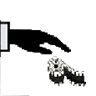
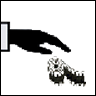
Added border/background for intel button

Changed region(s): [[0.0, 0.0, 1.0, 1.0]]

diff --git a/src/ClientGame.cpp b/src/ClientGame.cpp
@@ -65,7 +65,7 @@ void ClientGame::LoadResources()
             { &m_buttonTexture[ButtonId_Capture],       "assets/action_capture.png"     },
             { &m_buttonTexture[ButtonId_Stakeout],      "assets/action_stakeout.png"    },
             { &m_buttonTexture[ButtonId_Hack],          "assets/action_hack.png"        },
-            { &m_buttonTexture[ButtonId_Intel],         "assets/action_intel.png"       },
+            { &m_buttonTexture[ButtonId_Intel],         "assets/action_drop.png"        },
             { &m_buttonShadowTexture,                   "assets/button_shadow.png"      },
         };
 
